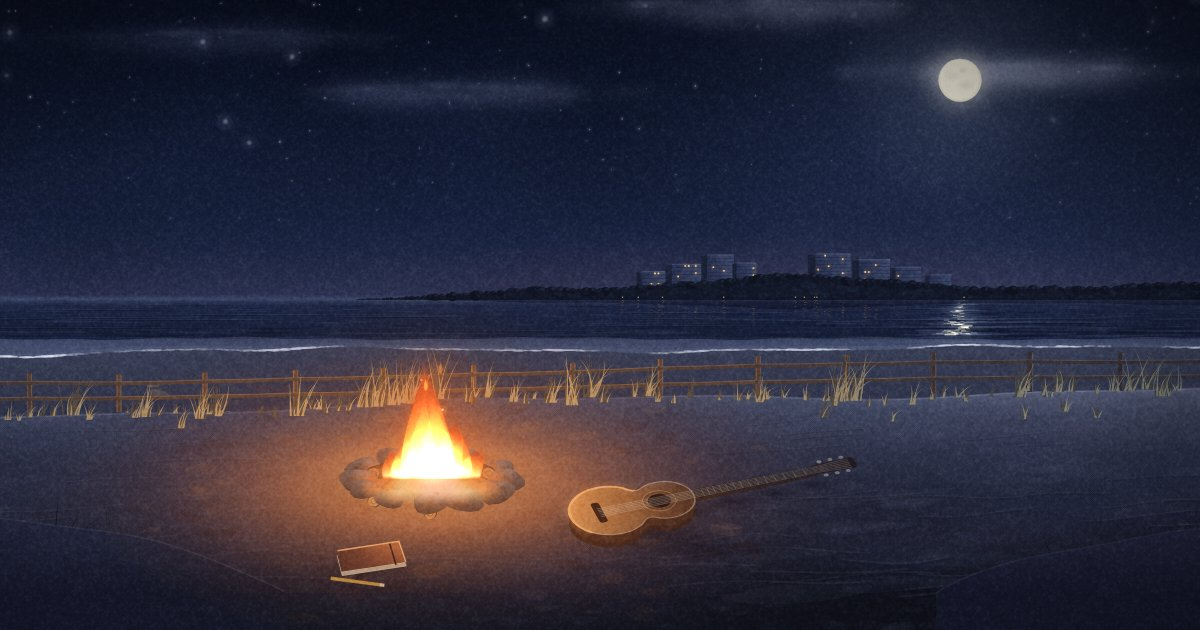
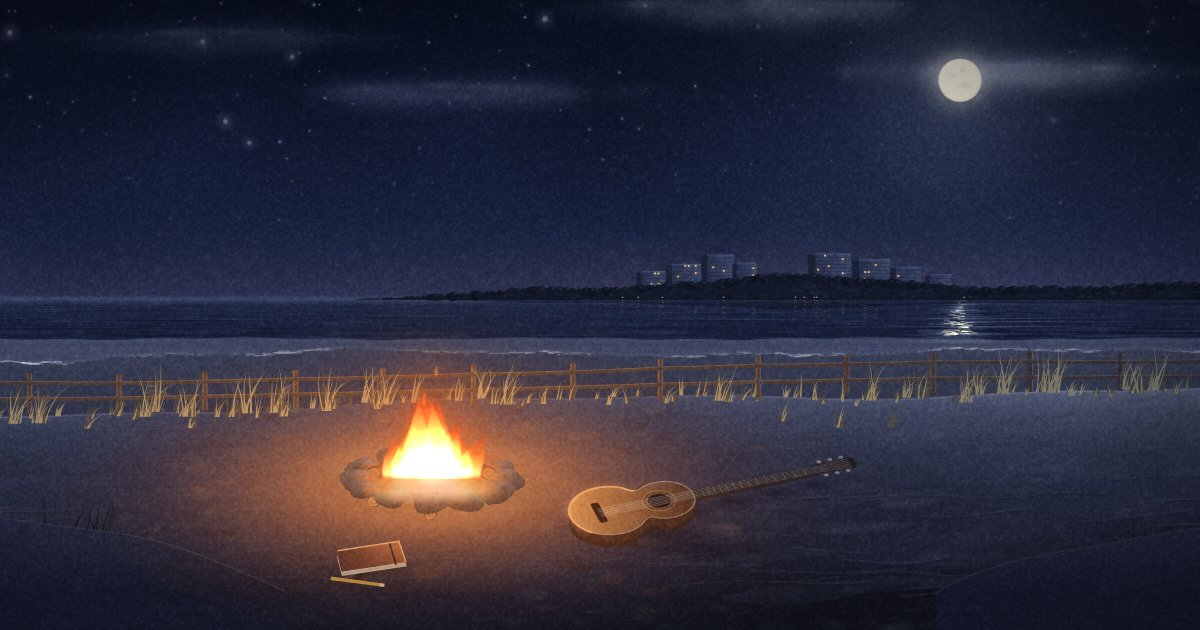
Make the waves subtler and the foam edge uneven, less regular
Claude-Session: https://claude.ai/code/session_01X25qFqS4Nn3YiVEMiKqtDQ

diff --git a/scene/index.html b/scene/index.html
@@ -560,8 +560,8 @@ function buildDynamic() {
   foam = [];
   for (let x = -10; x <= W + 10; x += R(3, 6) * s) {
     const n = .5 + .5 * Math.sin(x * .011 + 1.3) * Math.sin(x * .037 + .4);
-    if (n < .22 || rnd() < .12) continue;
-    foam.push({ x, n, rx: R(3, 8) * s * (.6 + n), ry: R(.8, 1.8) * s, dy: gauss() * 1.2 * s, back: R(1.5, 5) * s });
+    if (n < .3 || rnd() < .28) continue;
+    foam.push({ x, n: n * R(.5, 1), rx: R(2, 9) * s * (.5 + n), ry: R(.6, 1.7) * s, dy: gauss() * 2.2 * s, back: R(1.5, 5) * s, rot: gauss() * .12 });
   }
   // grass clumps
   clumps = [];
@@ -629,19 +629,20 @@ function drawBack(ctx, t, ox, oy) {
     const off = x / W * 3.4 + 1.4 * Math.sin(x * .0036 + .5) + .5 * Math.sin(x * .0075 + 2.1);
     const tt = (t + off) / (T * (1 + .08 * Math.sin(x * .0021 + 1))), cyc = Math.floor(tt), ph = tt - cyc;
     const bx = x / (W * .45), bi = Math.floor(bx), bf = bx - bi, sm = bf * bf * (3 - 2 * bf);
-    const big = .55 + .45 * (hash(cyc + bi * 17) * (1 - sm) + hash(cyc + (bi + 1) * 17) * sm);
+    const big = .65 + .35 * (hash(cyc + bi * 17) * (1 - sm) + hash(cyc + (bi + 1) * 17) * sm);
     const e = (ph < up ? 1 - Math.pow(1 - ph / up, 3) : .5 + .5 * Math.cos(Math.PI * (ph - up) / (1 - up))) * big;
     const back = ph < up ? 0 : (ph - up) / (1 - up);
-    return { ph, e, big, back, fa: ph < up ? .6 : .6 * Math.pow(1 - back, 1.3) };
+    return { ph, e, big, back, fa: ph < up ? .42 : .42 * Math.pow(1 - back, 1.3) };
   };
-  const reachX = x => Math.max(0, (L.edge(x) - shore) * .55) * (.8 + .2 * Math.sin(x * .009 + 2) + .08 * Math.sin(x * .031));
-  const edgeY = (x, k) => shore + wy + k * reachX(x) + .8 * s * Math.sin(x * .05 + t * .8);
+  const reachX = x => Math.max(0, (L.edge(x) - shore) * .42) * (.8 + .2 * Math.sin(x * .009 + 2) + .08 * Math.sin(x * .031));
+  const bump = x => 1.6 * s * Math.sin(x * .083 + 1) * Math.sin(x * .021) + .9 * s * Math.sin(x * .19 + 2) + .6 * s * Math.sin(x * .05 + t * .8);
+  const edgeY = (x, k) => shore + wy + k * (reachX(x) + bump(x));
   const xs = [], st = [];
   for (let x = -12; x <= W + 12; x += 6) { xs.push(x); st.push(at(x)); }
   // wet sand left by each run-up, drying out
   for (let i = 0; i < xs.length - 1; i++) {
     const a = st[i], b = st[i + 1]; if (!a.back && !b.back) continue;
-    const al = .28 * (1 - (a.back + b.back) / 2); if (al < .01) continue;
+    const al = .18 * (1 - (a.back + b.back) / 2); if (al < .01) continue;
     const x0 = xs[i], x1 = xs[i + 1];
     ctx.beginPath(); ctx.moveTo(x0 + wx, edgeY(x0, a.big)); ctx.lineTo(x1 + wx, edgeY(x1, b.big)); ctx.lineTo(x1 + wx, edgeY(x1, b.e)); ctx.lineTo(x0 + wx, edgeY(x0, a.e)); ctx.closePath();
     ctx.fillStyle = `rgba(14,18,34,${al.toFixed(3)})`; ctx.fill();
@@ -650,11 +651,11 @@ function drawBack(ctx, t, ox, oy) {
   ctx.beginPath(); ctx.moveTo(xs[0] + wx, shore + wy - 2 * s);
   xs.forEach((x, i) => ctx.lineTo(x + wx, edgeY(x, st[i].e)));
   ctx.lineTo(xs[xs.length - 1] + wx, shore + wy - 2 * s); ctx.closePath();
-  ctx.fillStyle = lin(ctx, 0, shore + wy, 0, shore + wy + reachX(mx) * .7 + 2 * s, [[0, 'rgba(30,40,70,.55)'], [1, 'rgba(90,104,150,.35)']]); ctx.fill();
+  ctx.fillStyle = lin(ctx, 0, shore + wy, 0, shore + wy + reachX(mx) * .7 + 2 * s, [[0, 'rgba(30,40,70,.4)'], [1, 'rgba(90,104,150,.22)']]); ctx.fill();
   // soft glow behind the foam, segment by segment so each stretch fades on its own
   ctx.lineWidth = 6 * s; ctx.lineCap = 'round';
   for (let i = 0; i < xs.length - 1; i++) {
-    const al = (st[i].fa + st[i + 1].fa) / 2 * .14; if (al < .01) continue;
+    const al = (st[i].fa + st[i + 1].fa) / 2 * .08; if (al < .01) continue;
     ctx.beginPath(); ctx.moveTo(xs[i] + wx, edgeY(xs[i], st[i].e) - 2 * s); ctx.lineTo(xs[i + 1] + wx, edgeY(xs[i + 1], st[i + 1].e) - 2 * s);
     ctx.strokeStyle = `rgba(150,165,205,${al.toFixed(3)})`; ctx.stroke();
   }
@@ -662,12 +663,12 @@ function drawBack(ctx, t, ox, oy) {
   for (const f of foam) {
     const q = at(f.x), a = q.fa * f.n; if (a < .01 || q.back > f.n) continue;
     ctx.fillStyle = `rgba(222,228,242,${a.toFixed(3)})`;
-    ctx.beginPath(); ctx.ellipse(f.x + wx, edgeY(f.x, q.e) + f.dy, f.rx * (1 - q.back * .5), f.ry, 0, 0, TAU); ctx.fill();
+    ctx.beginPath(); ctx.ellipse(f.x + wx, edgeY(f.x, q.e) + f.dy * (.5 + q.e), f.rx * (1 - q.back * .5), f.ry, f.rot, 0, TAU); ctx.fill();
   }
   // the next wave building just off the shore, where that stretch is about to break
   for (let i = 0; i < xs.length - 1; i++) {
     const q = st[i]; if (q.ph < .62) continue;
-    const k = (q.ph - .62) / .38, al = Math.sin(Math.PI * k) * .4; if (al < .01) continue;
+    const k = (q.ph - .62) / .38, al = Math.sin(Math.PI * k) * .22; if (al < .01) continue;
     const y = x => shore + wy - (1 - k) * 18 * s - 1.5 * s + 1.4 * s * Math.sin(x * .012 + 1) + s * Math.sin(x * .043);
     ctx.beginPath(); ctx.moveTo(xs[i] + wx, y(xs[i])); ctx.lineTo(xs[i + 1] + wx, y(xs[i + 1]));
     ctx.strokeStyle = `rgba(190,202,232,${al.toFixed(3)})`; ctx.lineWidth = (1 + k) * s; ctx.stroke();
